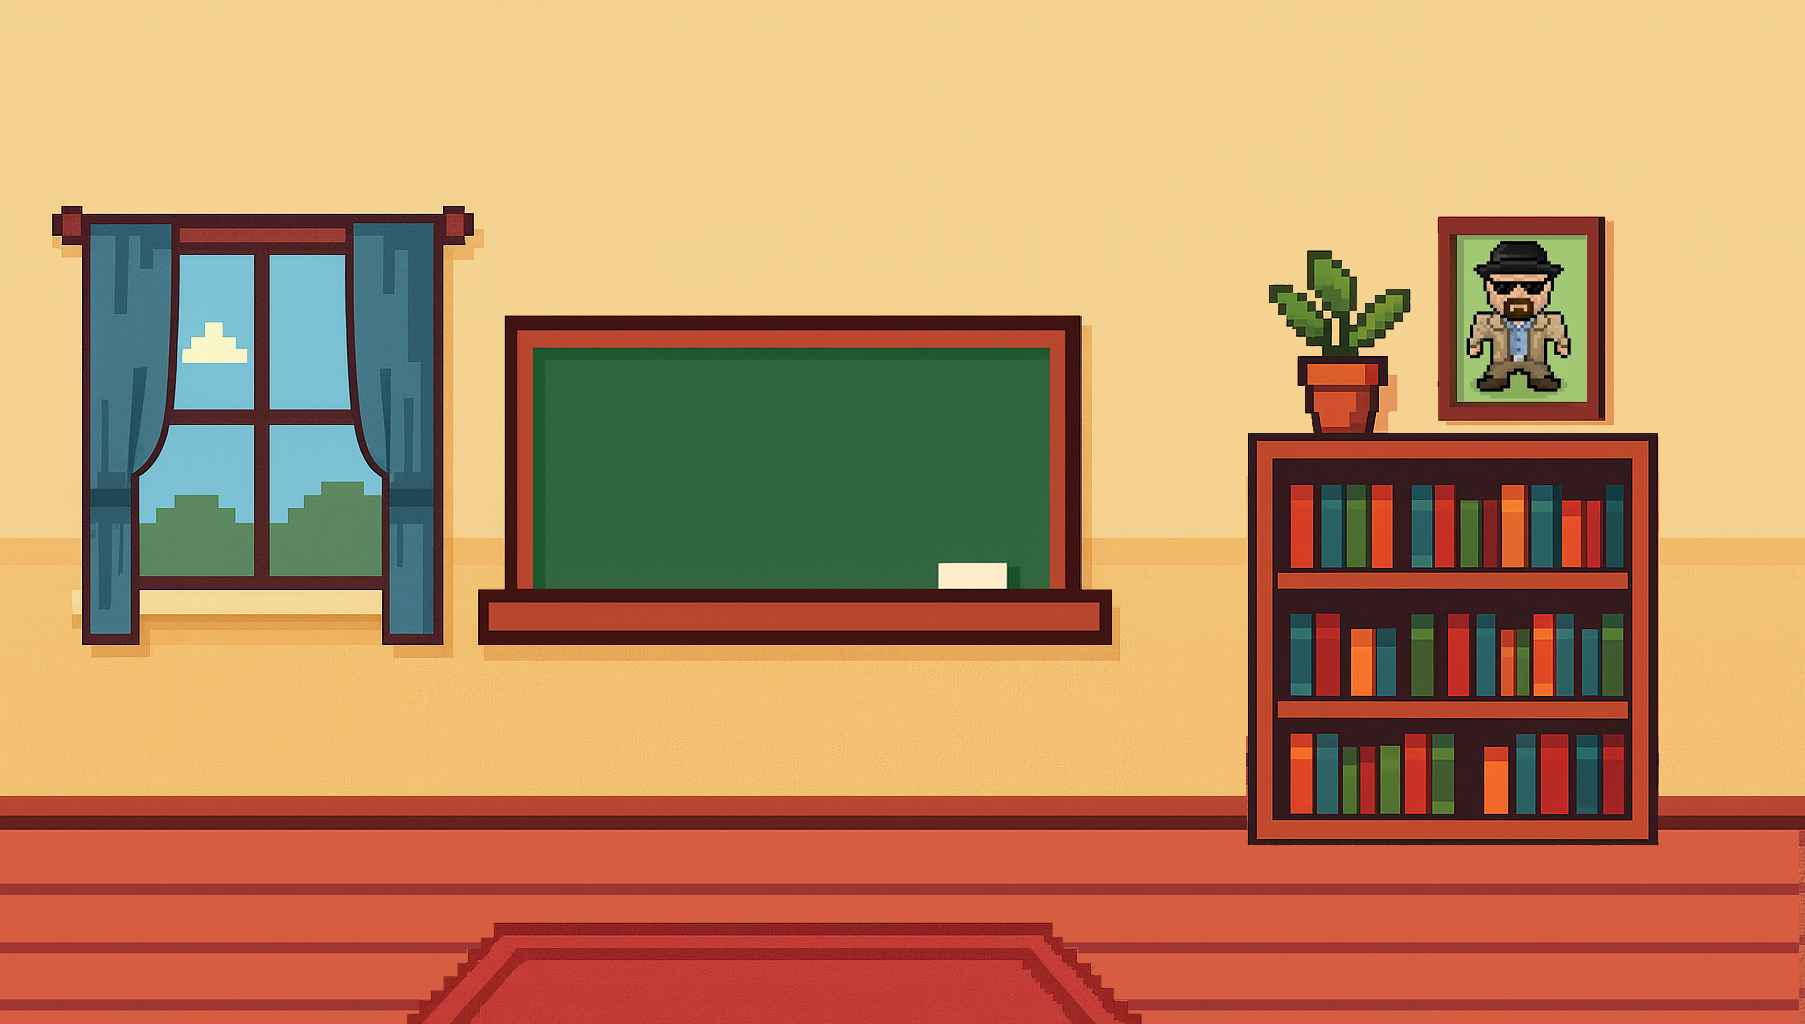
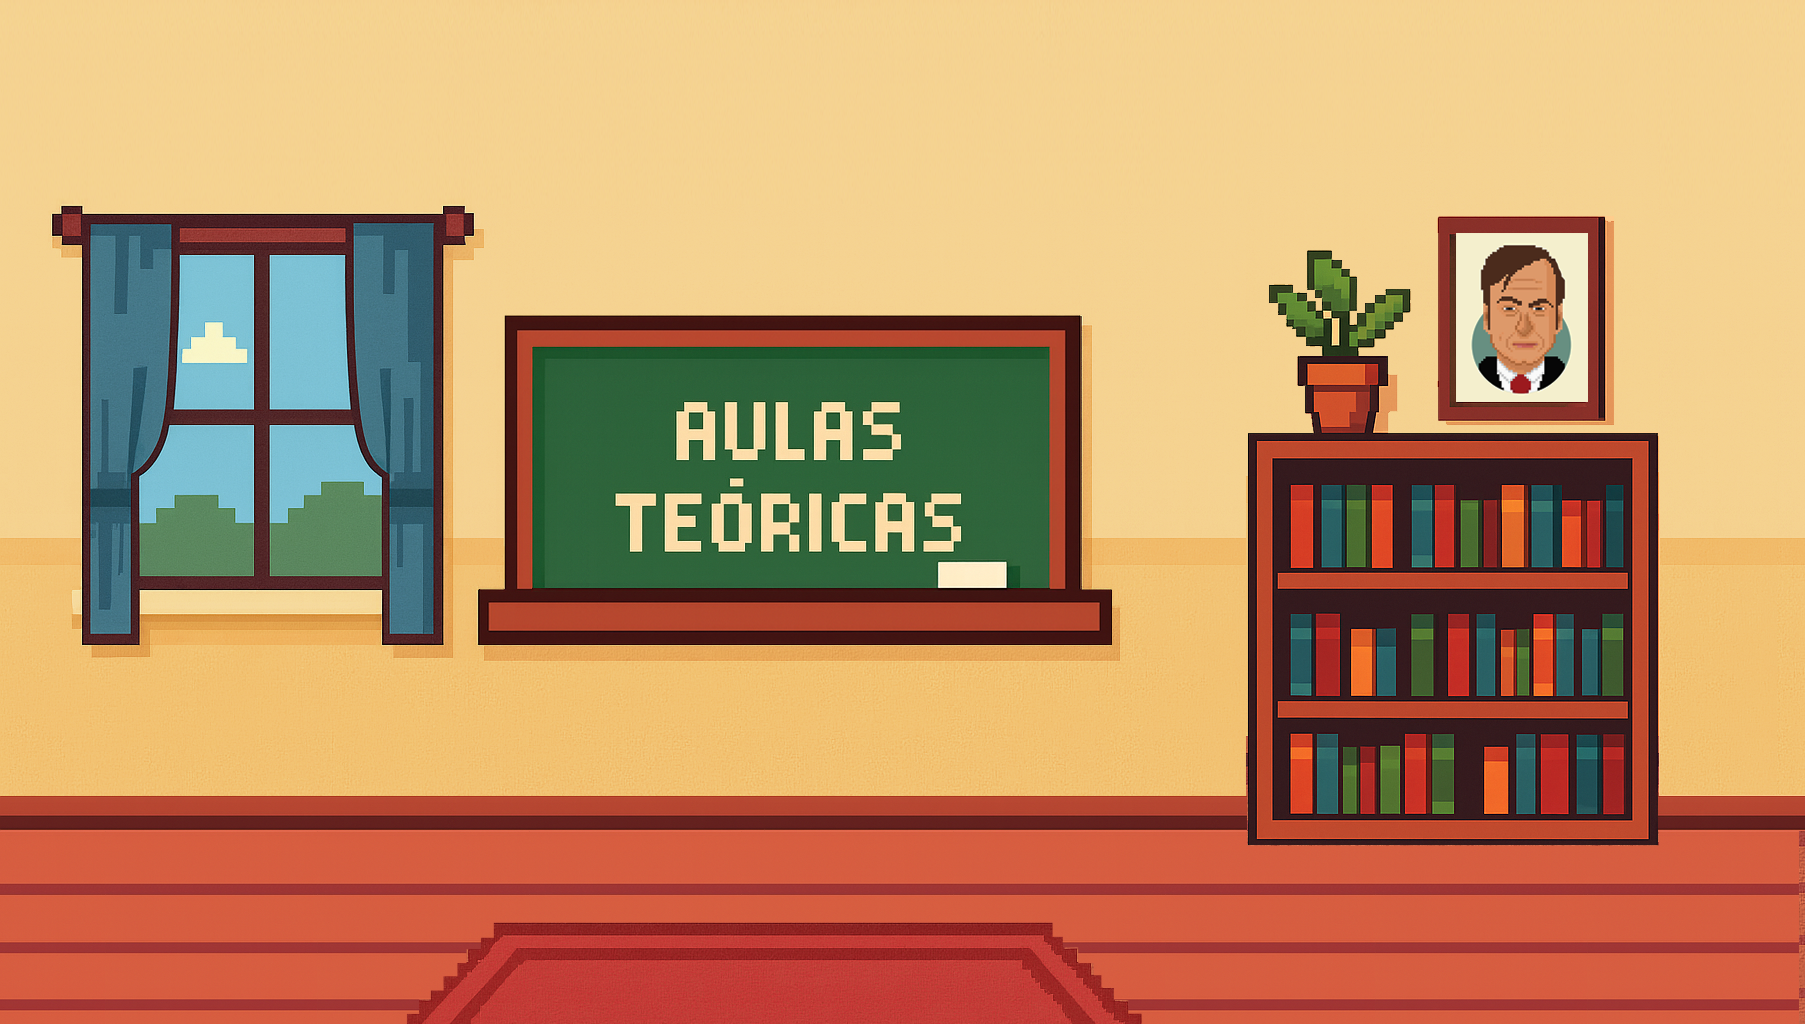
Aprimorando cenário

Changed region(s): [[0.3413, 0.375, 0.5584, 0.5625], [0.8066, 0.2188, 0.8997, 0.4062]]

diff --git a/src/phases/phase4_driving_school1/drivingSchool1.js b/src/phases/phase4_driving_school1/drivingSchool1.js
@@ -1,5 +1,6 @@
 import * as CameraSystem from '../../engine/camera/cameraSystem.js';
 import { AREAS, WORLD_SIZE } from '../../core/config.js';
+import InteractiveObject from '../../engine/interaction/InteractiveObject.js';
 
 export function startPhase4(scene) {
   const { width, height } = scene.scale;
@@ -33,6 +34,32 @@ export function startPhase4(scene) {
     inDialog: false,
     currentArea: AREAS.drivingSchool1
   };
+
+  const instructor = new InteractiveObject(scene, {
+    key: 'instructor',
+    x: width - 310,
+    y: height - 130,
+    texture: 'instructor',
+    scale: 0.24,
+    width: 100,
+    height: 100,
+    proximity: { x: 80, y: 120 }, 
+    dialogs: [
+      'Olá! Agora você terá suas aulas teóricas.',
+      'Aprendeu? Por hoje é só, pessoal!'
+    ],
+    onInteract: () => {
+        if (!scene.playerState.phase4Completed) {
+          console.log('Iniciando aulas teóricas...');
+          scene.ui.showMessage('Pode seguir em frente, campeão!');
+          scene.playerState.phase4Completed = true;
+        }
+  },
+    label: '',
+    hintText: '',
+  });
+    
+  instructor.sprite.setDepth(-2);
 }
 
 export function updatePhase4(scene) {

diff --git a/src/core/GameScene.js b/src/core/GameScene.js
@@ -101,6 +101,8 @@ export default class GameScene extends Phaser.Scene {
     this.load.image("button_right", "./assets/images/button-right.png");
     this.load.image("button_action", "./assets/images/button-action.png");
 
+    this.load.image("instructor", "./assets/images/instructor.png");
+
     this.load.image("driving_bg", "./assets/images/driving_bg.png");
     this.load.image("driving_bg_2", "./assets/images/driving_bg_2.png");
 
